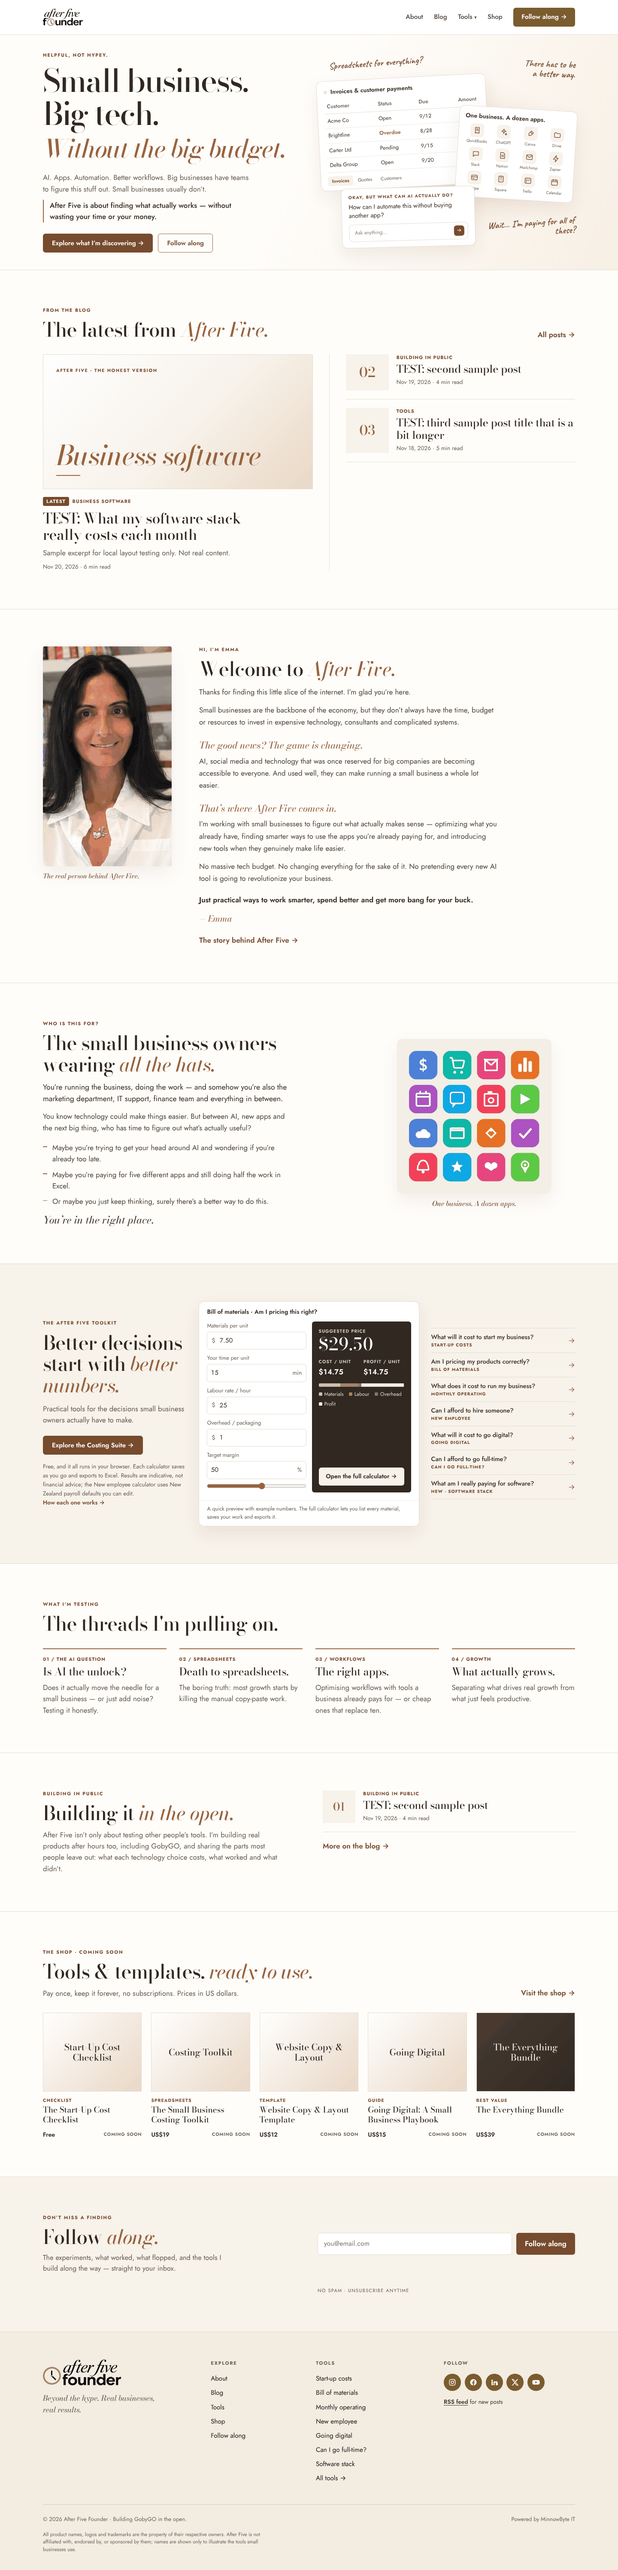
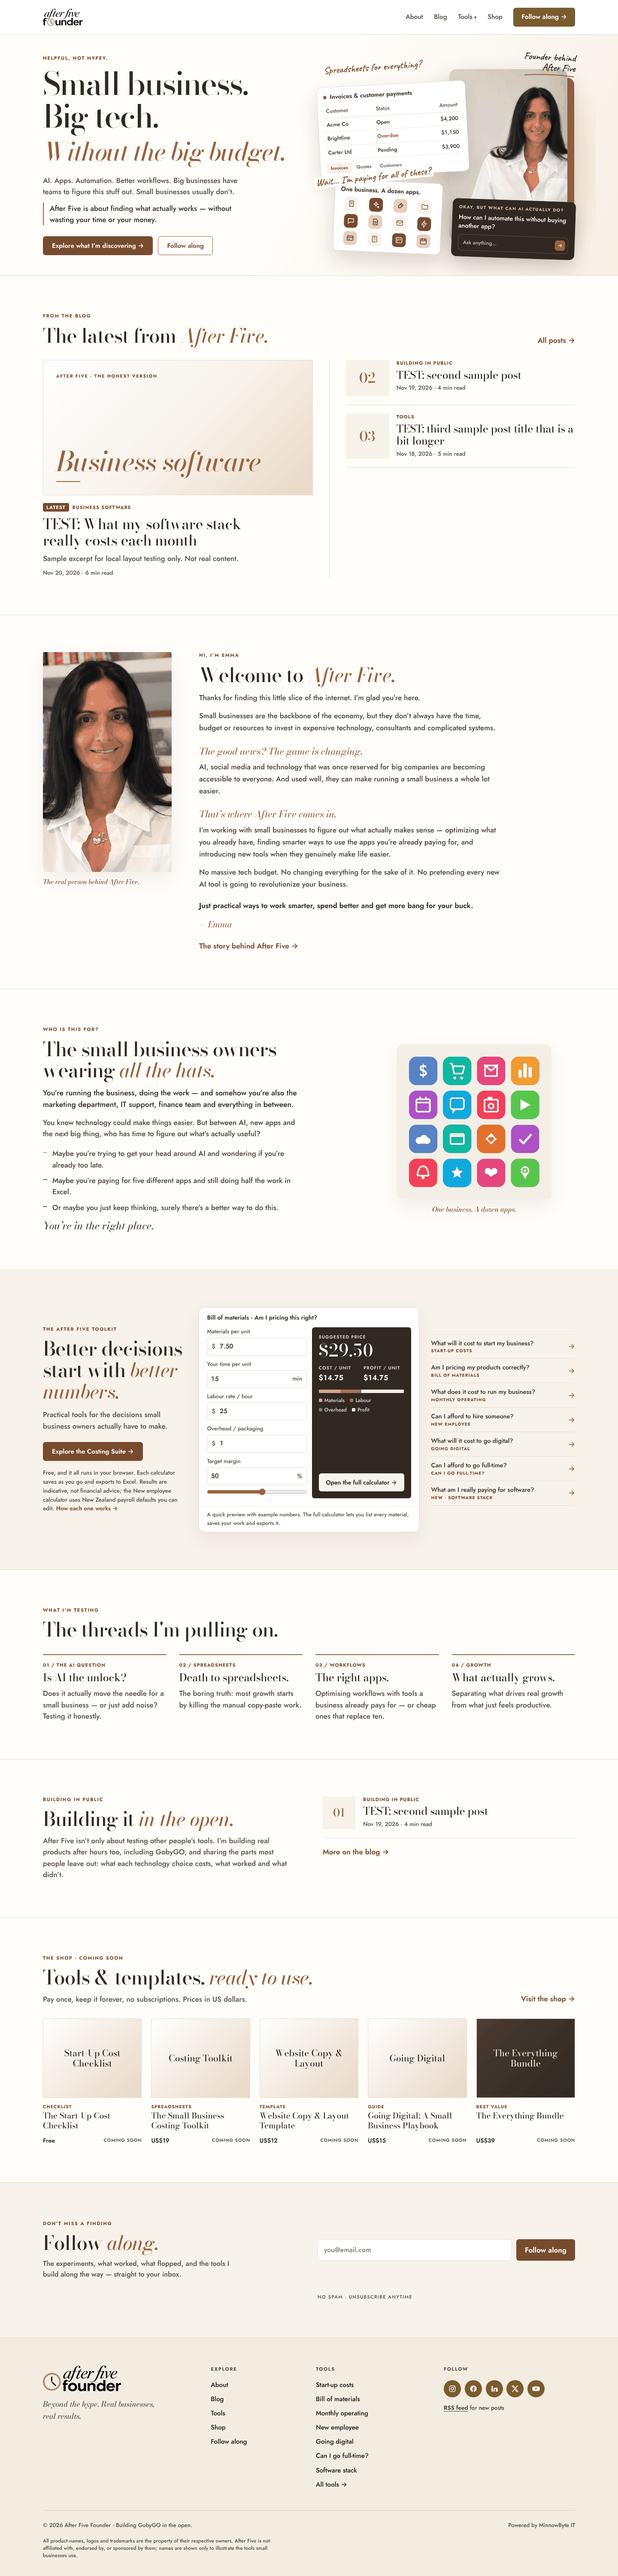
Bring Emma's photo back as the hero's focal point
The photo-free hero felt flat. Emma's hero photo now anchors the right side
on a bronze backing block, with the invoice sheet, the app panel and a dark
AI question card layered around it and a 'Founder behind After Five' note.
App tiles alternate cream, sand and bronze for more contrast. On phones the
app panel is hidden so the photo, invoices and AI card stay readable.

Claude-Session: https://claude.ai/code/session_01EWUL5sKaSTExd4HKL3qh3L

diff --git a/public/index.html b/public/index.html
@@ -81,35 +81,42 @@ section{position:relative}
 @keyframes heroUp{from{opacity:0;transform:translateY(10px)}to{opacity:1;transform:none}}
 
 /* hero illustration: the invoice spreadsheet, the app pile and the AI question */
-.stage{position:relative;height:440px;isolation:isolate}
-.stage::before{content:"";position:absolute;inset:8% 0 4% 6%;background:radial-gradient(ellipse at center,rgba(223,194,165,.43),transparent 70%);z-index:-1}
-.panel{position:absolute;background:#fff;border:1px solid var(--line);border-radius:var(--radius);box-shadow:var(--shadow)}
+.stage{position:relative;height:480px;isolation:isolate}
+.stage::before{content:"";position:absolute;inset:4% -8% -6% 18%;background:radial-gradient(ellipse at 60% 50%,rgba(214,176,138,.45),transparent 68%);z-index:-2}
+/* Emma: the real founder photo is the anchor of the composition */
+.portrait{position:absolute;top:40px;right:3%;width:46%;height:400px;margin:0;z-index:1}
+.portrait::before{content:"";position:absolute;inset:20px -16px -16px 20px;border-radius:16px;background:var(--bronze);z-index:-1}
+.portrait img{width:100%;height:100%;object-fit:cover;object-position:64% 16%;border-radius:16px;box-shadow:0 26px 56px rgba(48,40,33,.24)}
+.panel{position:absolute;background:#fff;border:1px solid var(--line);border-radius:var(--radius);box-shadow:0 20px 44px rgba(48,40,33,.16)}
 .panel-title{display:flex;align-items:center;gap:8px;margin-bottom:8px;font:600 14px/1.25 var(--sans);color:var(--ink)}
-.panel-title i{width:8px;height:8px;border-radius:50%;background:var(--stone)}
-.p-sheet{top:46px;left:0;width:66%;padding:16px 16px 10px;transform:rotate(-3deg);z-index:1}
+.panel-title i{width:8px;height:8px;border-radius:50%;background:var(--bronze)}
+.p-sheet{top:74px;left:0;width:58%;padding:14px 14px 10px;transform:rotate(-3deg);z-index:3}
 .sheet{width:100%;border-collapse:collapse;font-size:12.5px;font-variant-numeric:tabular-nums}
-.sheet th{text-align:left;font-weight:500;color:var(--muted);padding:7px 6px;border-bottom:1px solid var(--line)}
-.sheet td{padding:7px 6px;border-bottom:1px solid #f0e9df;color:var(--ink)}
+.sheet th{text-align:left;font-weight:500;color:var(--muted);padding:6px 5px;border-bottom:1px solid var(--line)}
+.sheet td{padding:6px 5px;border-bottom:1px solid #f0e9df;color:var(--ink)}
 .sheet .n{text-align:right}
-.sheet .over{color:var(--bronze);font-weight:600}
+.sheet .over{color:#a3412b;font-weight:600}
 .sheet-tabs{display:flex;gap:2px;margin-top:8px;font-size:11px;color:var(--muted)}
 .sheet-tabs span{padding:3px 9px;border-radius:4px}
 .sheet-tabs .on{background:var(--cream);color:var(--bronze-dark);font-weight:600}
-.p-apps{top:118px;right:0;width:46%;padding:14px;transform:rotate(3.5deg);z-index:2}
-.apps-grid{display:grid;grid-template-columns:repeat(4,minmax(0,1fr));gap:9px 4px}
-.app{display:flex;flex-direction:column;align-items:center;gap:4px;min-width:0}
-.app svg{width:32px;height:32px;padding:7px;border-radius:8px;background:var(--cream);color:var(--bronze-dark)}
-.app small{font-size:9.5px;line-height:1.1;color:var(--muted);text-align:center;white-space:nowrap;overflow:hidden;text-overflow:ellipsis;max-width:100%}
-.p-ai{bottom:0;left:9%;width:52%;padding:14px 16px;transform:rotate(-1.5deg);z-index:3}
-.p-ai small{display:block;margin-bottom:6px;font:700 10px/1.2 var(--sans);letter-spacing:.12em;text-transform:uppercase;color:var(--bronze-dark)}
-.p-ai p{font-size:14.5px;line-height:1.4;color:var(--ink)}
-.p-ai .ask{display:flex;align-items:center;justify-content:space-between;gap:8px;margin-top:10px;padding:7px 8px 7px 12px;border:1px solid var(--line);border-radius:8px;font-size:12px;color:#8a7f74}
-.p-ai .ask b{display:grid;place-items:center;width:24px;height:24px;border-radius:6px;background:var(--bronze-dark);color:#fff;font-weight:400}
-.note{position:absolute;z-index:4;font:600 22px/1.05 var(--hand);color:var(--bronze-dark);pointer-events:none}
-.note-1{top:4px;right:0;transform:rotate(2deg);text-align:right}
-.note-2{top:2px;left:4%;transform:rotate(-4deg)}
-.note-3{bottom:20px;right:0;max-width:210px;transform:rotate(-4deg);text-align:right}
-.note-4{bottom:24px;right:0;transform:rotate(3deg);text-align:right;color:var(--ink)}
+.sheet .due{display:none}
+.p-apps{bottom:14px;left:6%;width:42%;padding:13px;transform:rotate(2.5deg);z-index:4}
+.apps-grid{display:grid;grid-template-columns:repeat(4,minmax(0,1fr));gap:8px 4px}
+.app{display:flex;flex-direction:column;align-items:center;gap:3px;min-width:0}
+.app svg{width:32px;height:32px;padding:7px;border-radius:9px;background:var(--cream);color:var(--bronze-dark)}
+.app:nth-child(3n+2) svg{background:var(--bronze-dark);color:#fff}
+.app:nth-child(3n) svg{background:#e8d3bd;color:var(--ink)}
+.app small{display:none;font-size:9px;line-height:1.1;color:var(--muted);text-align:center;white-space:nowrap;overflow:hidden;text-overflow:ellipsis;max-width:100%}
+.p-ai{bottom:0;right:0;width:48%;padding:13px 14px;transform:rotate(2deg);z-index:5;background:var(--ink);border-color:var(--ink);color:#fff}
+.p-ai small{display:block;margin-bottom:6px;font:700 10px/1.25 var(--sans);letter-spacing:.12em;text-transform:uppercase;color:#e3c7a6}
+.p-ai p{font-size:14.5px;line-height:1.4;color:#fff}
+.p-ai .ask{display:flex;align-items:center;justify-content:space-between;gap:8px;margin-top:10px;padding:6px 6px 6px 11px;border:1px solid rgba(255,255,255,.2);border-radius:8px;font-size:12px;color:#cfc2b4}
+.p-ai .ask b{display:grid;place-items:center;width:24px;height:24px;border-radius:6px;background:var(--bronze);color:#fff;font-weight:400}
+.note{position:absolute;z-index:6;font:600 23px/1.05 var(--hand);color:var(--bronze-dark);pointer-events:none}
+.note-1{top:0;right:0;transform:rotate(3deg);text-align:right;color:var(--ink)}
+.note-1 svg{display:block;width:120px;height:10px;margin:2px 0 0 auto;color:var(--bronze)}
+.note-2{top:24px;left:2%;transform:rotate(-4deg)}
+.note-3{top:278px;left:-2%;transform:rotate(-6deg);padding:1px 6px;background:var(--paper);border-radius:4px;z-index:6}
 
 /* ---------- LATEST ---------- */
 .lt-grid{display:grid;grid-template-columns:minmax(0,1.25fr) minmax(0,1fr);gap:38px;align-items:start}
@@ -264,9 +271,11 @@ section{position:relative}
   .shopt-list{grid-template-columns:repeat(3,minmax(0,1fr))}
 }
 @media(min-width:901px) and (max-width:1180px){
-  .p-ai{left:2%;width:62%}
-  .note-3{max-width:150px;font-size:19px}
-  .app small{font-size:8.5px}
+  .stage{height:460px}
+  .p-sheet{width:66%}
+  .p-apps{width:52%;left:0}
+  .p-ai{width:54%}
+  .note-3{top:262px;font-size:20px}
 }
 @media(max-width:900px){
   .hero-grid{grid-template-columns:1fr;gap:24px;min-height:0;padding-block:40px}
@@ -285,23 +294,20 @@ section{position:relative}
   body{font-size:16px}
   .sec-head{flex-direction:column;align-items:flex-start;gap:10px}
   .hero .cta .btn{flex:1 1 auto}
-  .stage{height:350px}
-  .p-sheet{top:36px;left:0;width:86%;padding:12px 12px 8px}
-  .sheet{font-size:11px}.sheet th,.sheet td{padding:5px 4px}
-  .sheet .due,.sheet-tabs{display:none}
-  .p-apps{top:150px;width:62%;padding:10px}
-  .apps-grid{grid-template-columns:repeat(4,minmax(0,1fr));gap:7px 3px}
-  .app svg{width:28px;height:28px;padding:6px;border-radius:7px}
-  .app small{display:none}
-  .app:nth-child(n+9){display:none}
-  .p-ai{left:4%;width:80%;padding:11px 12px}
+  .stage{height:400px}
+  .portrait{top:34px;right:0;width:50%;height:300px}
+  .portrait::before{inset:14px -10px -10px 14px}
+  .p-sheet{top:70px;left:0;width:68%;padding:10px 10px 6px}
+  .sheet{font-size:11px}.sheet th,.sheet td{padding:5px 3px}
+  .sheet-tabs{display:none}
+  .p-apps{display:none}
+  .p-ai{left:6%;right:auto;width:84%;padding:11px 12px}
   .p-ai p{font-size:13.5px}
   .p-ai .ask{display:none}
   .note{font-size:19px}
-  .note-2{display:none}
-  .note-3{bottom:auto;top:0;right:0;max-width:170px}
-  .note-1{display:none}
-  .note-4{display:none}
+  .note-1{top:0}
+  .note-2{top:16px;left:0}
+  .note-3{display:none}
   .founder-grid{grid-template-columns:1fr}
   .hats-fig{max-width:240px}
   .founder-fig{position:relative;top:0;max-width:220px}
@@ -354,9 +360,10 @@ section{position:relative}
         <a class="btn btn-line" href="#join">Follow along</a>
       </div>
     </div>
-    <div class="stage" role="img" aria-label="Sketch of small business tech overload: an invoice spreadsheet, a dozen apps and a question for AI, with handwritten notes">
+    <div class="stage">
+      <figure class="portrait"><img src="/assets/emma-hero.jpg" alt="Emma, founder of After Five" width="900" height="1001" fetchpriority="high"></figure>
       <div class="note note-2" aria-hidden="true">Spreadsheets for everything?</div>
-      <div class="note note-1" aria-hidden="true">There has to be<br>a better way.</div>
+      <div class="note note-1" aria-hidden="true">Founder behind<br>After Five<svg viewBox="0 0 150 12" fill="none" stroke="currentColor" stroke-width="2.6" stroke-linecap="round"><path d="M4 8 C 44 2 104 2 146 6"/></svg></div>
       <div class="panel p-sheet" aria-hidden="true">
         <div class="panel-title"><i></i>Invoices &amp; customer payments</div>
         <table class="sheet">
@@ -364,7 +371,6 @@ section{position:relative}
           <tr><td>Acme Co</td><td>Open</td><td class="due">9/12</td><td class="n">$4,200</td></tr>
           <tr><td>Brightline</td><td class="over">Overdue</td><td class="due">8/28</td><td class="n">$1,150</td></tr>
           <tr><td>Carter Ltd</td><td>Pending</td><td class="due">9/15</td><td class="n">$3,900</td></tr>
-          <tr><td>Delta Group</td><td>Open</td><td class="due">9/20</td><td class="n">$7,250</td></tr>
         </table>
         <div class="sheet-tabs"><span class="on">Invoices</span><span>Quotes</span><span>Customers</span></div>
       </div>

diff --git a/design/after-five-target/qa/README.md b/design/after-five-target/qa/README.md
@@ -12,7 +12,7 @@ Files: `baseline-*` is the site before this change, `reference-*` is `03-referen
 |---|---|---|
 | Header and footer logo | `public/assets/logo-wm.png`, `logo-full.png` | Unchanged |
 | Typography | Google Fonts Jost and Bodoni Moda (already loaded) | Added the upright Bodoni Moda weights for headings |
-| Hero illustration | The existing hero composition: invoice spreadsheet, the dozen-app panel, the AI question and the handwritten notes | Recomposed to the reference layout. Brand-coloured app tiles and the AI brand dot replaced with generic line icons; the app names stay as plain text |
+| Hero illustration | `public/assets/emma-hero.jpg` plus the existing invoice spreadsheet, dozen-app panel, AI question and handwritten notes | Emma's photo is the focal point with the panels layered around it, after feedback that the photo-free version felt flat. Brand-coloured app tiles and the AI brand dot replaced with generic line icons; the app names stay as plain text |
 | Stories | `/api/latest` (client) and `homeLatestHtml` in `worker.js` (server) | Now one feature and two smaller stories (was one and three). Empty state unchanged in wording |
 | Founder | `public/assets/emma-about.jpg` and the existing welcome copy | Directly after the stories |
 | Who it's for | `public/assets/emma-apps.jpg` and existing copy | Kept, restyled |
@@ -27,7 +27,7 @@ Files: `baseline-*` is the site before this change, `reference-*` is `03-referen
 |---|---|---|
 | Original logo and fonts; no generated portrait, brand marks or fake articles | PASS | `after-1440-viewport.png` |
 | Header about 80px | PASS | 81px desktop (incl. border), 65px mobile |
-| Hero about 530px, two balanced columns | PASS | 547px at 1440, 555px at 1920, 530px at 1024 |
+| Hero about 530px, two balanced columns | PASS | 560px at 1440 and 1920, 540px at 1024 |
 | First editorial heading and start of stories visible at 1440x900 | PASS | `after-1440-viewport.png` |
 | Bright paper hero, bronze accent on final tagline line, original illustration on the right | PASS | `after-1440-viewport.png` |
 | Content max 1240px, section spacing 48–88px | PASS | `--max` 1240, `--section` clamp(48px, 6vw, 88px) |
@@ -42,7 +42,8 @@ Files: `baseline-*` is the site before this change, `reference-*` is `03-referen
 
 ## Known differences from the reference
 
-- The reference hero has no portrait, so Emma's photo moved from the hero to the founder section, which comes straight after the stories.
+- The reference hero has no portrait. A first pass followed it, but it read as flat, so Emma's hero photo is back as the focal point. The founder section after the stories uses a different photo.
+- Text is heavier than the pack's defaults (Jost at 500, darker grey) after feedback that the type was too thin.
 - The three small "Practical solutions / Real-world tests / Built for small business" badges under the hero buttons were removed to keep the hero near 530px.
 - The "Who is this for?" and "Building in public" sections are not in the reference. They were kept and restyled because they hold existing copy.
 - The shop shows the five real products, not the reference's three.
